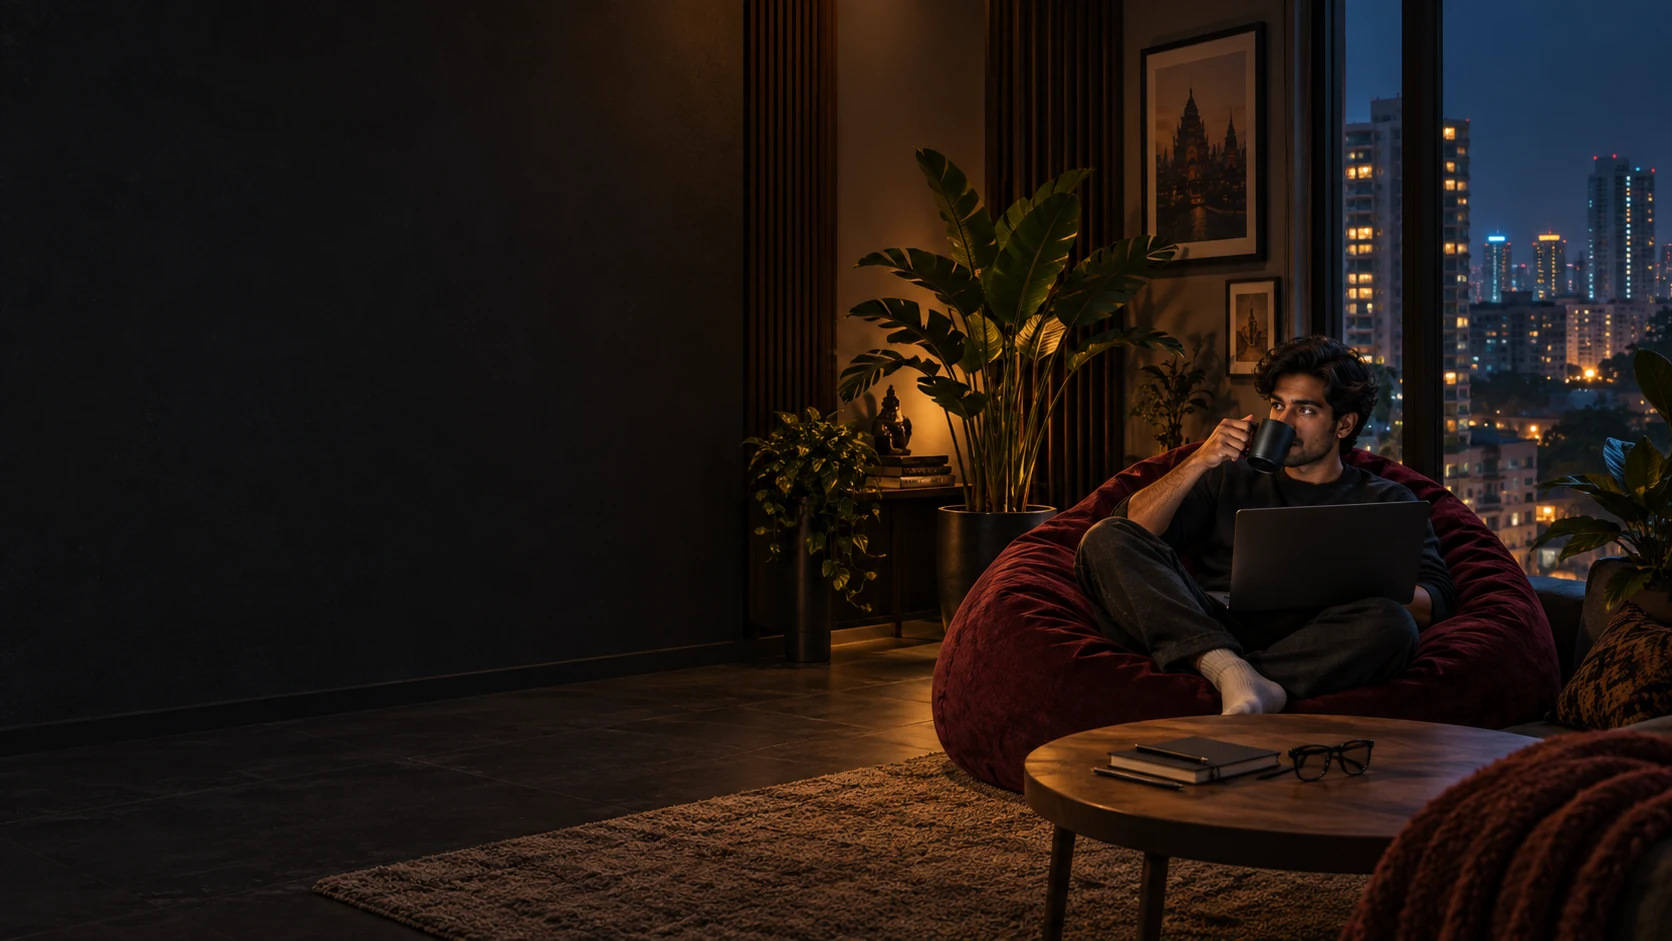
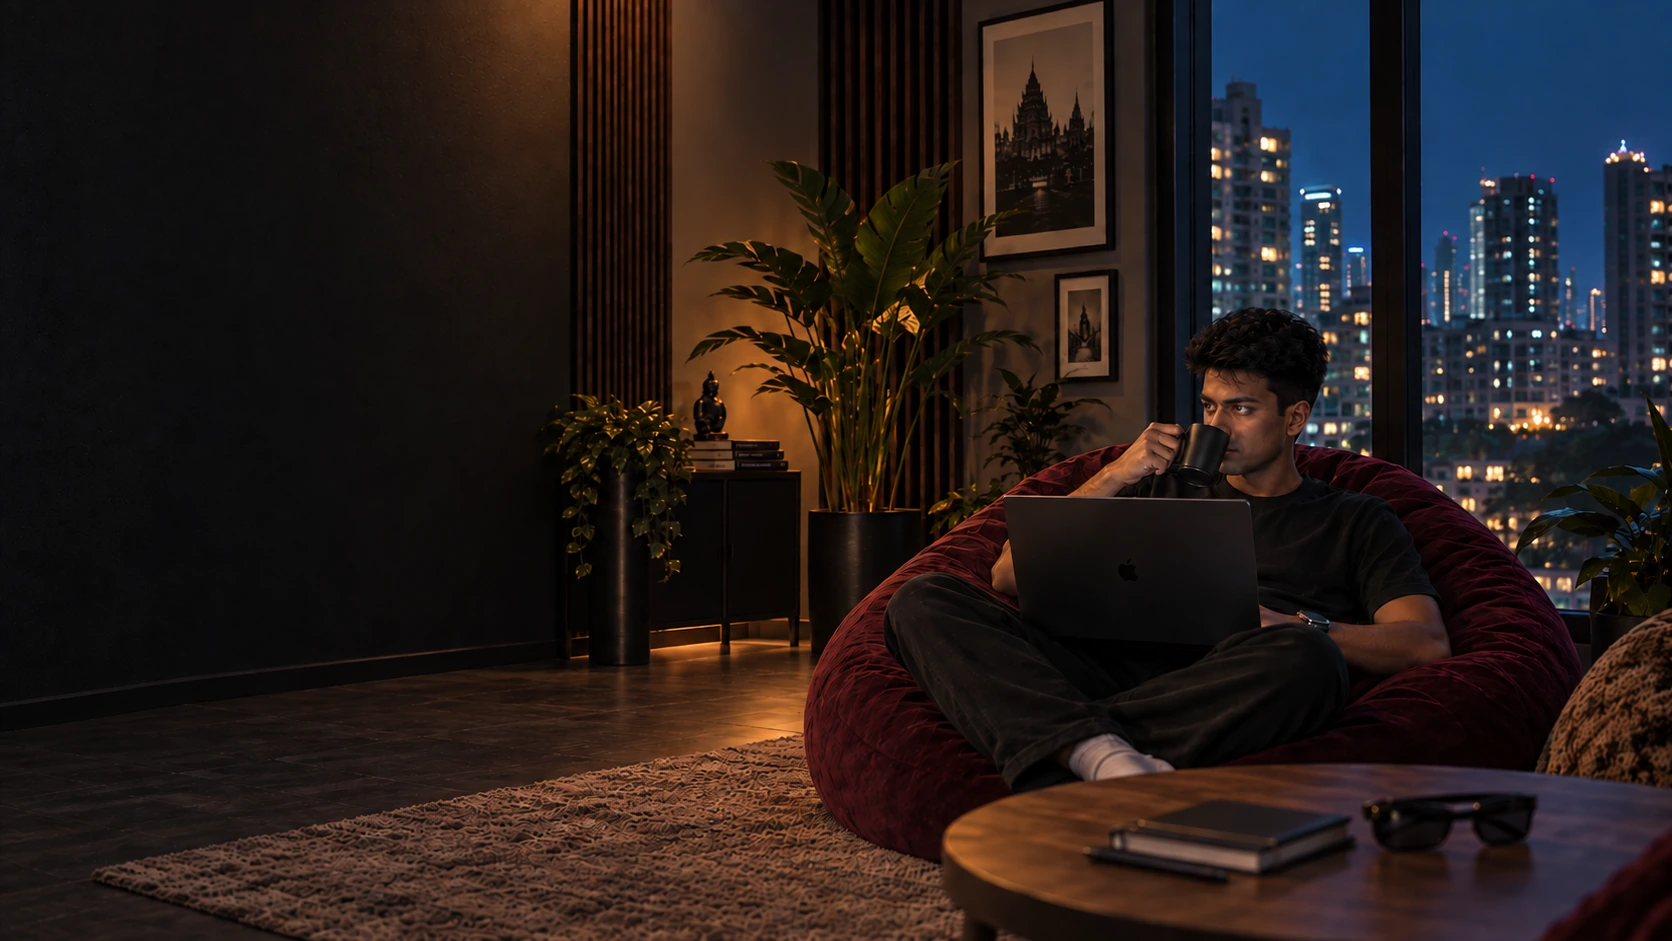
Final hero, blob reaches the tagline, and the Mirror shows itself running
Hero
The supplied final render, used whole. I had replaced this composition twice
trying to fix something that was not broken; the wide dark left third is what
the type needs and what the lamp hangs in, and it is back.

Blob
Wraps the name and the two lines under it rather than the heading alone, so it
follows the pointer down to "Curious by default." and stops there. The wrapper
is max-content width, which is what keeps it on the left of the screen: it
cannot reach the figure without a second clip rule.

AI Lifestyle Mirror
Every metric removed. Six subsystems, three providers, two timeouts and two
"Not measured" rows told a recruiter nothing, and half of it was an admission
rather than a claim. In their place is the actual screenshot of the thing
running: clock, weather, the day's calendar, a briefing, reminders, training
mode counting reps, and the current track. Projects can now carry a `shot`,
which takes the evidence column ahead of any chart or metrics table.

The screenshot loads eagerly. Lazy never fires for an image that starts inside
a collapsed drawer, because the observer sees a zero-height box.

diff --git a/content/projects.ts b/content/projects.ts
@@ -45,6 +45,8 @@ export type Project = {
   stack: string[]
   repo?: string
   live?: string
+  /** A real screenshot, where one says more than a metrics table would. */
+  shot?: { src: string; alt: string; caption: string }
   /** Two or three paragraphs. The actual explanation. */
   body: string[]
   /** The pull quote. One sentence that could only come from this project. */
@@ -206,29 +208,28 @@ export const projects: Project[] = [
     id: 'mirror',
     slug: 'ai-lifestyle-mirror',
     name: 'AI Lifestyle Mirror',
-    tagline: 'Six subsystems on one laptop, each sampled at the rate a person can actually perceive.',
+    tagline: 'A mirror that wakes when you walk up to it: time, weather, calendar, news, music and posture, all on one surface.',
     track: 'Applied ML',
     year: '2026',
     status: 'local',
     stack: ['Python', 'asyncio', 'WebSockets', 'SQLite', 'OpenCV', 'MediaPipe', 'Groq', 'Gemini', 'OpenAI'],
     repo: 'https://github.com/Aditya2k5here/smart-mirror',
     featured: true,
+    shot: {
+      src: '/shots/mirror.webp',
+      alt: 'The mirror running: clock, weather, calendar, briefing, reminders, training mode and the current track',
+      caption: 'Running on the bench. Everything on this screen is live.',
+    },
     body: [
-      'A mirror surface that wakes when you walk up to it and shows the time, the weather, the news, and what your posture is doing while you stand there. Vision, voice, memory and four REST integrations run at once behind a single orchestration layer: an event bus, a state manager, a WebSocket broadcaster, and a cache that marks entries stale rather than serving them quietly.',
-      'The rule that made it smooth was doing less. Face detection is cheap and runs every frame. Recognition is expensive and almost never changes, so it does not. Emotion changes slowly. Posture, gesture and exercise tracking run off the main loop entirely. The broadcast is capped, because the eyes on the other side of the glass cannot use more than a few updates a second and spending frames on updates nobody perceives is how a camera loop starts stuttering.',
-      'Language calls go through a three-provider router ordered by latency and cost, behind 8 and 10 second timeouts, with per-provider latency logged to a diagnostics endpoint. The failure paths were written before the happy path: automatic failover, a cache that admits when it is stale, and a finally block that returns the state machine to idle after a crash instead of leaving a mirror frozen on someone’s face.',
+      'Presence wakes it. From there it runs the clock and weather, the day’s calendar, a news briefing, whatever is playing, and a training mode that counts reps off the camera. Face recognition, emotion and posture run in the vision module; speech and conversation in another; and a memory service keeps enough history to say something useful about your week.',
+      'The rule that made it smooth was doing less. Face detection is cheap and runs every frame. Recognition almost never changes, so it does not. Posture and rep counting run off the main loop entirely, and the broadcast is capped, because nobody can perceive more than a few updates a second on a mirror.',
+      'Language calls go through a router across three providers ordered by latency and cost, behind timeouts, with per-provider latency logged. The failure paths were written before the happy path: automatic failover, a cache that marks itself stale rather than serving quietly, and a finally block that returns the state machine to idle after a crash.',
     ],
     insight:
-      'Every subsystem that felt like it needed to run every frame turned out to be something nobody could perceive changing that fast. The smoothness came from deleting work, not from optimising it.',
-    metrics: [
-      { label: 'Concurrent subsystems', value: '6' },
-      { label: 'Language providers in the failover chain', value: '3', note: 'ordered by latency and cost' },
-      { label: 'Provider timeouts', value: '8 s / 10 s' },
-      { label: 'Sustained frame rate', value: 'Not measured', note: 'no benchmark harness yet' },
-      { label: 'Frame to broadcast latency, p95', value: 'Not measured' },
-    ],
+      'Every subsystem that felt like it needed to run every frame turned out to be something nobody could perceive changing that fast.',
+    metrics: [],
     next: [
-      'Needs a webcam, so a recorded demo is how it travels.',
+      'Needs a webcam, so the screenshot and a recorded demo are how it travels.',
       'Next: a benchmark harness, so the smoothness is measured rather than observed.',
     ],
   },

diff --git a/components/Lamp.tsx b/components/Lamp.tsx
@@ -18,6 +18,11 @@ import { useEffect, useRef } from 'react'
  * The glow is a sibling that reads the same two custom properties, so the light
  * goes where the bulb actually is rather than staying where it was drawn.
  *
+ * The cord pays out rather than the whole assembly sliding: rotating and then
+ * translating the rig moved the cord's top end off the ceiling and opened a
+ * gap at the crop line, so `#rig` only rotates now, the two cord lines have
+ * their y2 driven, and `#fixture` alone carries the travel.
+ *
  * A note on the sign. In SVG's y-down space rotate(+θ) about the ceiling fixing
  * maps the hanging point (0, L) to (-L·sinθ, L·cosθ), so a positive angle
  * swings the shade left. Taking the pointer's angle straight out of atan2 drove
@@ -47,11 +52,15 @@ export function Lamp({ className = '' }: { className?: string }) {
     const svg = root.current
     if (!svg) return
     const rig = svg.querySelector<SVGGElement>('#rig')
+    const fixture = svg.querySelector<SVGGElement>('#fixture')
+    const cords = Array.from(svg.querySelectorAll<SVGLineElement>('.cord'))
     if (!rig) return
 
     const reduce = window.matchMedia('(prefers-reduced-motion: reduce)').matches
 
-    let angle = reduce ? 0 : -0.06
+    /* Dead straight at rest. It used to start tilted and settle, which read
+       as the lamp reacting to the pointer merely arriving. */
+    let angle = 0
     let angVel = 0
     let stretch = 0
     let stretchVel = 0
@@ -68,10 +77,11 @@ export function Lamp({ className = '' }: { className?: string }) {
 
     const paint = () => {
       const len = REST + stretch
-      rig.setAttribute(
-        'transform',
-        `rotate(${(angle * 180) / Math.PI} ${AX} ${AY}) translate(0 ${stretch})`,
-      )
+      rig.setAttribute('transform', `rotate(${(angle * 180) / Math.PI} ${AX} ${AY})`)
+      /* The cord grows; only the fixture travels. Translating the whole rig
+         dragged the cord's top end away from the ceiling and opened a gap. */
+      cords.forEach((c) => c.setAttribute('y2', String(AY + 150 + stretch)))
+      fixture?.setAttribute('transform', `translate(0 ${stretch})`)
       /* Where the bulb ended up, for the glow and for anything outside that
          wants to follow the light. */
       svg.style.setProperty('--bx', String(AX - Math.sin(angle) * len))
@@ -118,7 +128,7 @@ export function Lamp({ className = '' }: { className?: string }) {
       if (!p) return
       const dx = p.x - AX
       const dy = p.y - AY
-      const next = Math.max(-0.62, Math.min(0.62, -Math.atan2(dx, dy)))
+      const next = Math.max(-0.72, Math.min(0.72, -Math.atan2(dx, dy)))
       angVel = next - angle
       angle = next
 
@@ -197,10 +207,11 @@ export function Lamp({ className = '' }: { className?: string }) {
       />
 
       <g id="rig" className="grab">
-        {/* cord */}
-        <line x1={AX} y1={AY} x2={AX} y2={AY + 150} stroke="#15181d" strokeWidth="5" />
-        <line x1={AX} y1={AY} x2={AX} y2={AY + 150} stroke="#2c323c" strokeWidth="1.5" />
+        {/* cord: y2 is driven, so it pays out as the lamp is pulled down */}
+        <line className="cord" x1={AX} y1={AY} x2={AX} y2={AY + 150} stroke="#15181d" strokeWidth="5" />
+        <line className="cord" x1={AX} y1={AY} x2={AX} y2={AY + 150} stroke="#2c323c" strokeWidth="1.5" />
 
+        <g id="fixture">
         {/* collar */}
         <path
           d={`M${AX - 15} ${AY + 150}h30l-3 30h-24z`}
@@ -235,6 +246,7 @@ export function Lamp({ className = '' }: { className?: string }) {
 
         {/* the spill on the floor under it */}
         <ellipse cx={AX} cy={AY + 306} rx="36" ry="10" fill="#ffe0a6" opacity="0.5" filter="url(#l-soft)" />
+        </g>
       </g>
 
     </svg>

diff --git a/components/Contact.tsx b/components/Contact.tsx
@@ -12,6 +12,10 @@ import { Stage } from './Stage'
  *
  * The three facts sit underneath as a quiet strip rather than a sidebar, so the
  * page keeps one column of attention instead of two.
+ *
+ * Sized to land inside one screen. The separate "Say hello" button went for
+ * that: the email row directly above it is the same action, and it was costing
+ * roughly the height the section was over by.
  */
 
 const ROWS = [
@@ -20,7 +24,7 @@ const ROWS = [
   { k: 'GitHub', v: `github.com/${profile.githubHandle}`, href: profile.github, icon: 'git' },
   { k: 'LeetCode', v: 'leetcode.com/u/aditya-srinivas3', href: profile.leetcode, icon: 'code' },
   { k: 'Phone', v: profile.phone, href: `tel:${profile.phone.replace(/\s/g, '')}`, icon: 'phone' },
-  { k: 'Résumé', v: 'View / Download', href: cv, icon: 'doc' },
+  { k: 'Resume', v: 'View / Download', href: cv, icon: 'doc' },
 ] as const
 
 const FACTS = [
@@ -33,18 +37,18 @@ export function Contact() {
   return (
     <Stage id="contact" n="07" title="Contact">
       <div className="cut mx-auto max-w-[920px]">
-        <p className="t-h2 max-w-[13ch] text-[clamp(34px,6.4vw,74px)] leading-[1.02] tracking-[-0.04em]">
+        <p className="t-h2 max-w-[13ch] text-[clamp(30px,5.4vw,62px)] leading-[1.02] tracking-[-0.04em]">
           Got something interesting?
           <br />
           <span className="text-[var(--sig-lit)]">Let&rsquo;s talk.</span>
         </p>
 
-        <p className="t-body mt-7 max-w-[48ch]">
+        <p className="t-body mt-5 max-w-[48ch]">
           Open to internships, full-time roles, interesting collaborations, or just a good
           technical conversation.
         </p>
 
-        <ul className="mt-11 border-t border-[var(--edge)]">
+        <ul className="mt-8 border-t border-[var(--edge)]">
           {ROWS.map((r, i) => (
             <li
               key={r.k}
@@ -53,7 +57,7 @@ export function Contact() {
             >
               <a
                 href={r.href}
-                className="grid grid-cols-[22px_minmax(0,90px)_minmax(0,1fr)_18px] items-center gap-x-4 py-4 sm:gap-x-6 sm:py-[18px]"
+                className="grid grid-cols-[22px_minmax(0,88px)_minmax(0,1fr)_18px] items-center gap-x-4 py-3 sm:gap-x-6 sm:py-3.5"
                 {...(r.href.startsWith('http') || r.href.startsWith('/docs')
                   ? { target: '_blank', rel: 'noreferrer noopener' }
                   : {})}
@@ -76,9 +80,9 @@ export function Contact() {
           ))}
         </ul>
 
-        <dl className="mt-9 grid gap-px border-b border-[var(--edge)] bg-[var(--edge)] pb-px sm:grid-cols-3">
+        <dl className="mt-7 grid gap-px border-b border-[var(--edge)] bg-[var(--edge)] pb-px sm:grid-cols-3">
           {FACTS.map((f) => (
-            <div key={f.k} className="flex items-start gap-3 bg-[var(--void)] py-5 pr-5">
+            <div key={f.k} className="flex items-start gap-3 bg-[var(--void)] py-4 pr-5">
               <span className="mt-0.5 text-[var(--sig)]">
                 <Icon name={f.icon} />
               </span>
@@ -89,11 +93,6 @@ export function Contact() {
             </div>
           ))}
         </dl>
-
-        <a className="btn btn--sig mt-10" href={`mailto:${profile.email}`}>
-          Say hello
-          <span aria-hidden>&rarr;</span>
-        </a>
       </div>
     </Stage>
   )

diff --git a/components/Work.tsx b/components/Work.tsx
@@ -1,5 +1,6 @@
 'use client'
 
+import Image from 'next/image'
 import { useState } from 'react'
 import { projects, type Project } from '@/content/projects'
 import { Stage } from './Stage'
@@ -234,7 +235,23 @@ function Row({
 
             {/* ---------------- the evidence ---------------- */}
             <div className="min-w-0">
-              {chart ?? (
+              {p.shot ? (
+                <figure className="panel m-0 overflow-hidden">
+                  <Image
+                    src={p.shot.src}
+                    alt={p.shot.alt}
+                    width={1280}
+                    height={720}
+                    sizes="(min-width: 1024px) 640px, 92vw"
+                    loading="eager"
+                    className="h-auto w-full"
+                  />
+                  <figcaption className="tag border-t border-[var(--edge)] px-4 py-3 normal-case tracking-normal">
+                    {p.shot.caption}
+                  </figcaption>
+                </figure>
+              ) : (
+                chart ?? (
                 <div className="panel p-[clamp(18px,2.2vw,26px)]">
                   {head && (
                     <>
@@ -272,11 +289,12 @@ function Row({
                     </dl>
                   )}
                 </div>
+                )
               )}
 
               {/* Where a chart carried the headline, the rest of the numbers
                   still need somewhere to live. */}
-              {chart && rest.length > 0 && (
+              {!p.shot && chart && rest.length > 0 && (
                 <dl className="mt-4 flex flex-col">
                   {[head, ...rest].filter(Boolean).map((m) => (
                     <div

diff --git a/app/globals.css b/app/globals.css
@@ -733,6 +733,9 @@ html.js-cut .cut.in .seq > * {
   .namewrap {
     position: relative;
     isolation: isolate;
+    /* Bounded to the left-hand text block, which is what keeps the blob on the
+       left of the screen without a second clip rule. */
+    max-width: max-content;
   }
 
   /* The blob is an SVG laid over the whole block, so the path can be drawn in
@@ -744,7 +747,7 @@ html.js-cut .cut.in .seq > * {
     width: 100%;
     height: 100%;
     z-index: -1;
-    overflow: visible;
+    overflow: hidden;
     pointer-events: none;
     opacity: 0;
     transition: opacity 420ms ease;
@@ -1000,4 +1003,19 @@ html.js-cut .cut.in .seq > * {
     font-size: 8px;
     letter-spacing: 0.07em;
   }
+}
+
+/* Contact is meant to land inside one screen. The shared stage padding is
+   sized for sections you scroll through, which put it about 160px over. */
+#contact.stage {
+  padding-block: clamp(36px, 4.2vh, 60px);
+}
+
+/* The section header eats a third of the budget on its own here. */
+#contact .cut {
+  margin-top: -10px;
+}
+
+#contact > .shell > .cut:first-child {
+  margin-bottom: clamp(18px, 2.2vw, 30px);
 }

diff --git a/components/Opening.tsx b/components/Opening.tsx
@@ -44,13 +44,16 @@ export function Opening() {
             <span className="hero-name-given block">Aditya</span>
             <span className="hero-name-family -ml-[0.05em] block">Srinivas</span>
           </h1>
+
+          <p className="mt-8 text-[30px] font-medium leading-tight tracking-[-0.03em]">
+            Curious by default.
+          </p>
+
+          <p className="mt-2.5 max-w-[31ch] text-[17px] leading-[1.55] text-[var(--grey-1)]">
+            I&rsquo;m usually one &ldquo;wait, what if&hellip;&rdquo; away from building
+            something.
+          </p>
         </Blob>
-
-        <p className="mt-8 text-[30px] font-medium leading-tight tracking-[-0.03em]">Curious by default.</p>
-
-        <p className="mt-2.5 max-w-[31ch] text-[17px] leading-[1.55] text-[var(--grey-1)]">
-          I&rsquo;m usually one &ldquo;wait, what if&hellip;&rdquo; away from building something.
-        </p>
 
         <div className="mt-9 flex flex-wrap gap-2.5">
           <a className="btn btn--sig" href="#work">

diff --git a/components/Blob.tsx b/components/Blob.tsx
@@ -33,7 +33,7 @@ import { useEffect, useRef, type ReactNode } from 'react'
  */
 
 const N = 16
-const R = 84
+const R = 66
 const WIDE = 1.38 // horizontal stretch of the resting shape
 const TALL = 0.92
 
@@ -125,7 +125,7 @@ export function Blob({ children }: { children: ReactNode }) {
       }
       const d = toPath(pts)
       paths.forEach((p) => p.setAttribute('d', d))
-      g.setAttribute('transform', `translate(${cx.toFixed(1)} ${cy.toFixed(1)})`)
+      g.setAttribute('transform', `translate(${cx.toFixed(1)} ${(cy + 26).toFixed(1)})`)
     }
 
     const move = (e: PointerEvent) => {
